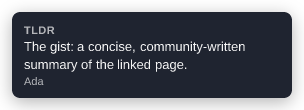
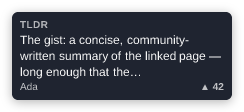
Hover popup: show the vote count, shrink it, crop long bodies (issue #26)
Three owner-requested tweaks to the link-hover popup (hover-tooltip.mjs):
- the leading note's vote count now rides the meta line (▲ N, matching
  the panel's vote-rail glyph), right-aligned next to the author;
- the card is smaller — 220px max-width, tighter padding, 12px type;
- an over-long body is hard-capped to MAX_BODY_CHARS with an ellipsis
  (new pure truncateBody, unit-tested) so one long note can't grow the
  popup into a wall of text over the page.

Re-pins the 11.12 snapshot (its fixture now uses a long body + a real
vote count so the approved image shows both the crop and the ▲ count),
extends 11.7's assertions + shown walk to cover the vote count, and
updates the harness's tooltipParts to read author/votes separately.

Claude-Session: https://claude.ai/code/session_01SvqGnqLjwEswk5jJE1JUNV

Changed region(s): [[0.0287, 0.0818, 0.9754, 0.9], [0.832, 0.7364, 0.918, 0.8182]]

diff --git a/dev/requirements/requirements.md b/dev/requirements/requirements.md
@@ -1116,13 +1116,14 @@ side panel honors, §4.2) is never a lookup candidate — no network call, no po
 <tr>
 <td valign="top" width="340">
 
-hover → debounce → `getTopComment(tldr)` → popup “TLDR · the gist of it · Ada”; mouseout → removed <!-- req-gallery:11.7 -->
+hover → debounce → `getTopComment(tldr)` → popup “TLDR · the gist of it · Ada · ▲ 5”; mouseout → removed <!-- req-gallery:11.7 -->
 
 </td>
 <td valign="top">
 
 `11.7` Hovering a candidate link **with** a leading comment shows a popup — after a short debounce —
-naming the current category and the comment's body/author; moving off the link removes it.
+naming the current category and the comment's body, author, and **vote count** (▲ N); moving off the
+link removes it.
 
 </td>
 </tr>
@@ -1204,8 +1205,10 @@ or `content_scripts` entry, so no user sees a new install-time warning.
 <td valign="top">
 
 `11.12` The **hover popup's look**: a compact **dark card** with the current category's label on top,
-the leading note's **body**, and its **author** below — rendered through the real content script and
-the shipped popup stylesheet, so this image moves when the popup's code or styles do.
+the leading note's **body** — hard-capped with an **ellipsis** when it's too long, so the popup stays
+small — and, on the meta line, the **author** and the note's **vote count** (▲ N). Rendered through the
+real content script and the shipped popup stylesheet, so this image moves when the popup's code or
+styles do.
 
 </td>
 </tr>